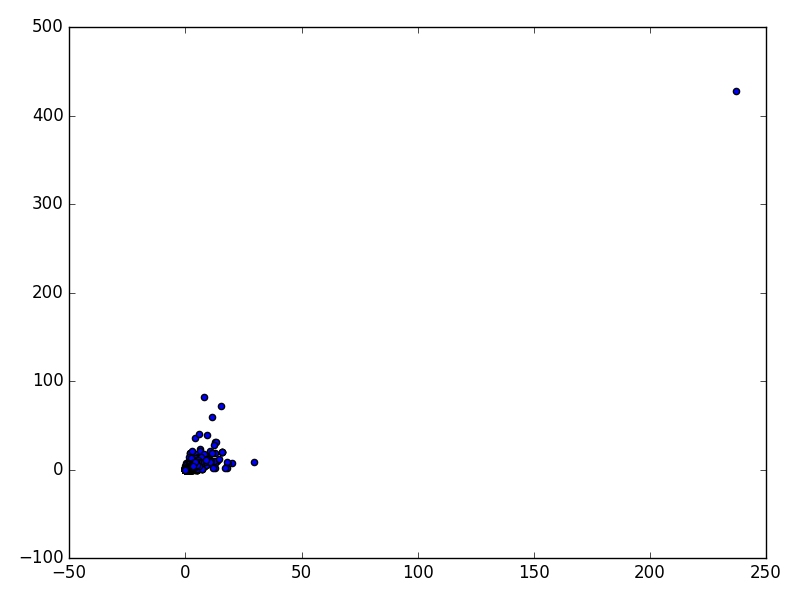
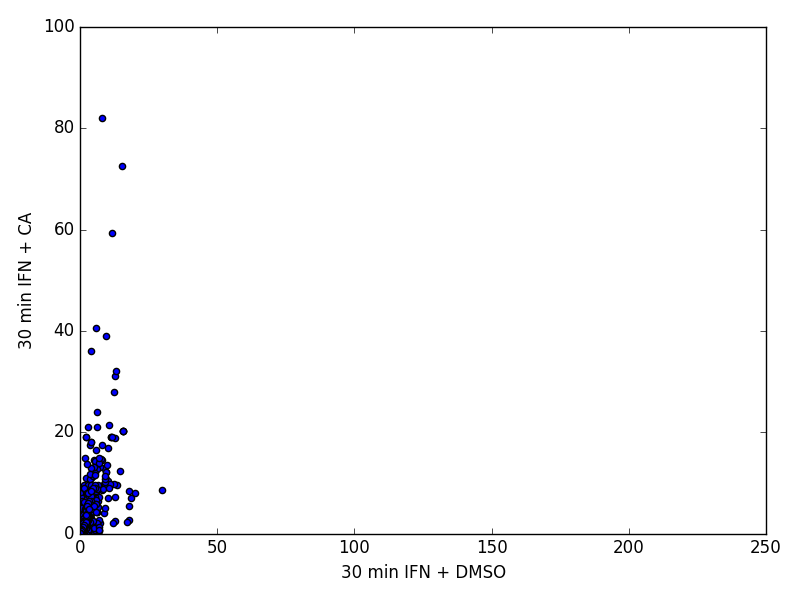
updates

Changed region(s): [[0.0, 0.03, 0.9688, 0.96], [0.2188, 0.66, 0.3438, 0.81]]

diff --git a/src/pausing_index_IRIS.py b/src/pausing_index_IRIS.py
@@ -62,7 +62,7 @@ def plot_vs(pausing_indexes1,pausing_indexes2,figuredir):
     plt.xlabel("30 min IFN + DMSO")
     plt.ylabel("30 min IFN + CA")
     plt.ylim((0,100))
-    plt.xlim((0.100))
+    plt.xlim((0,100))
     plt.savefig(figuredir + 'pausing_indexes_IRIS.png')
 
 def plot_boxplots(array_of_pausing_indexes):
